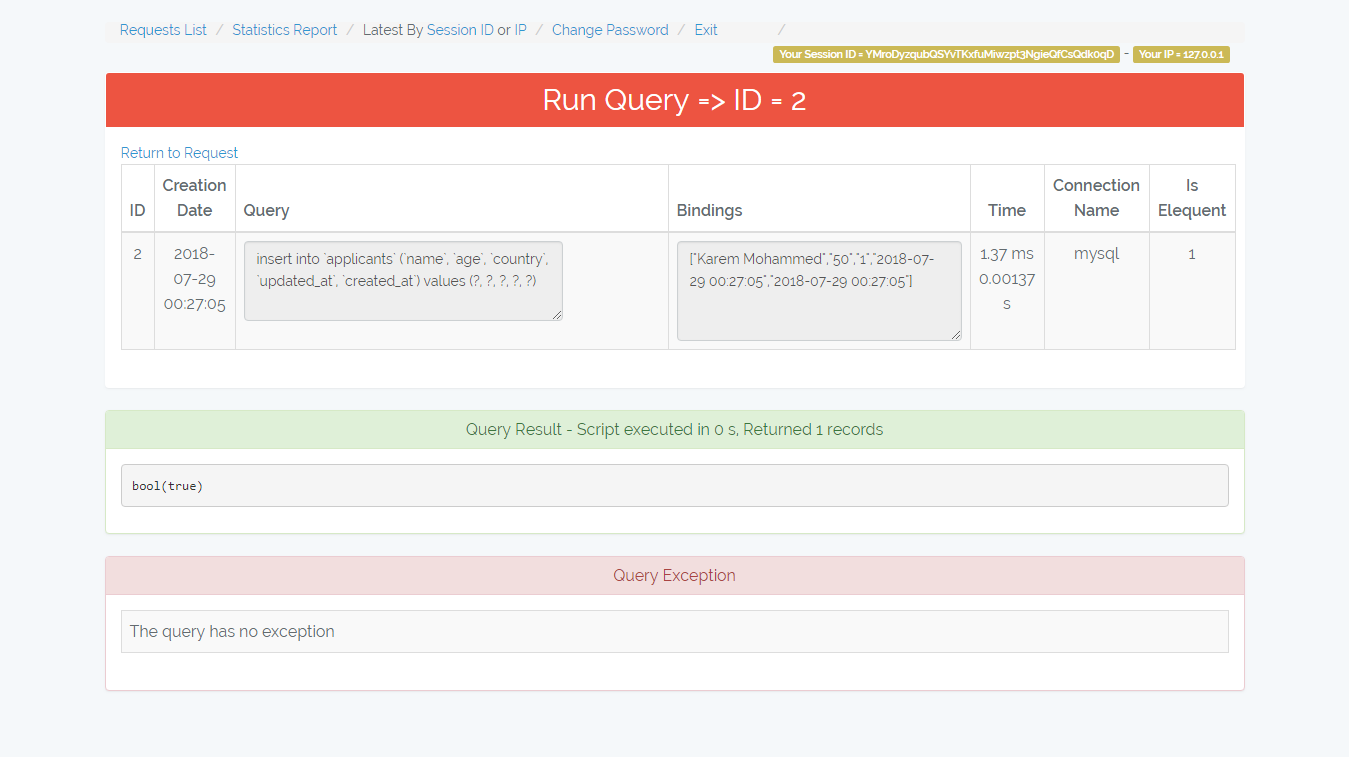
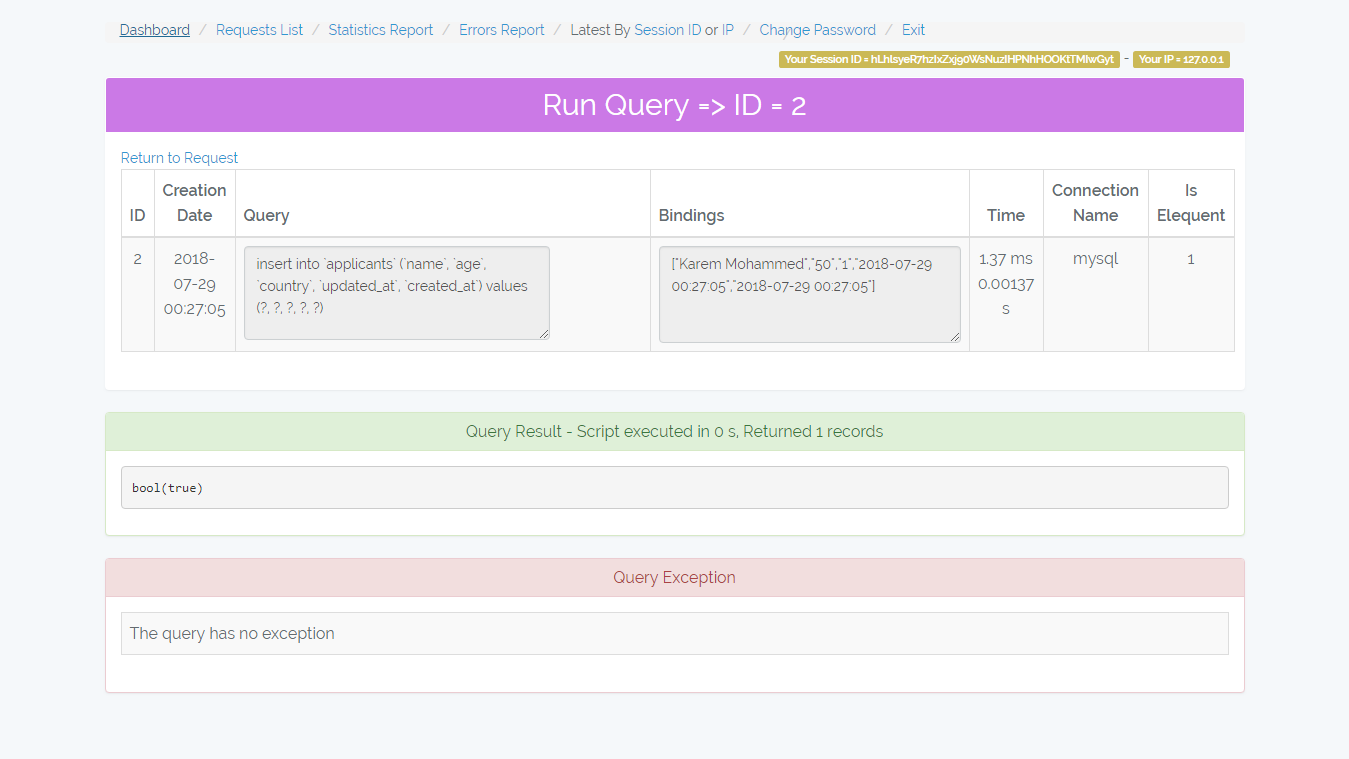
Add dashboard screenshot and docs

diff --git a/README.md b/README.md
@@ -74,6 +74,8 @@ Monitor your laravel application performance by logging requests in your databas
 - The package creates **inDbPerformanceMonitor.php** file in your config folder which has options
 	- **IN\_DB\_MONITOR\_WORK** => If true the package will work and log the comming requests (default = true)
 
+	- **IN\_DB\_MONITOR\_PANEL** => If false the admin panel will not be accessible and any link to '/admin-monitor/*' with throw 404 (default = true)
+
 	- **IN\_DB\_MONITOR\_TOKEN** => Holds the admin-monitor passowrd token (default password = monitor)
 
 	- **IN\_DB\_MONITOR\_NEGLICT\_START\_WITH** => Array of routes to neglict from log (e.x. /test so any request start with /test will not be  logged in the DB)
@@ -85,6 +87,7 @@ Monitor your laravel application performance by logging requests in your databas
 ### Routes
 
 - **/admin-monitor** => The login page (default password = monitor).
+- **/admin-monitor/dashboard** => Dashboard with requests counts.
 - **/admin-monitor/requests** => List all requests and provided with search panel to filter the results.
 - **/admin-monitor/request/{id}** => Display request details.
 - **/admin-monitor/run-query/{id}** => Display query details and re-run it.
@@ -98,7 +101,12 @@ Monitor your laravel application performance by logging requests in your databas
 
 ------------------------------------------------
 
-**2- /admin-monitor/requests** => list all logged requests
+**2- /admin-dashboard** => Dashboard with requests counts grouped by type and archive tag.
+![alt 12-Dashboard.png](screenshots/12-Dashboard.png)
+
+------------------------------------------------
+
+**3- /admin-monitor/requests** => list all logged requests
 
 - **Search box:** search in (Action, Route, URL, Session ID, Type[POST,GET,...], Archive Tag) and in (Error Message, Error File) in case of checked **Has errors** check box
 
@@ -127,7 +135,7 @@ Monitor your laravel application performance by logging requests in your databas
 
 ------------------------------------------------
 
-**3- /admin-monitor/request/{id}** => Shows the request details, queries, and error beside that it allows you to re-run the queries.
+**4- /admin-monitor/request/{id}** => Shows the request details, queries, and error beside that it allows you to re-run the queries.
 
 
 	Hint => You can quickly get your last request by Latest By Session ID Or IP
@@ -155,12 +163,12 @@ Monitor your laravel application performance by logging requests in your databas
 
 ------------------------------------------------
 
-**4- /admin-monitor/statistics-report** => Statistics report about the requests performance group by request route uri and type.
+**5- /admin-monitor/statistics-report** => Statistics report about the requests performance group by request route uri and type.
 ![alt 10-Statistics_Report.png](screenshots/10-Statistics_Report.png)
 
 ------------------------------------------------
 
-**5- /admin-monitor/changePassword** => To change admin monitor panel password.
+**6- /admin-monitor/changePassword** => To change admin monitor panel password.
 ![alt 11-Change_Password.png](screenshots/11-Change_Password.png)
 
 ## Author
